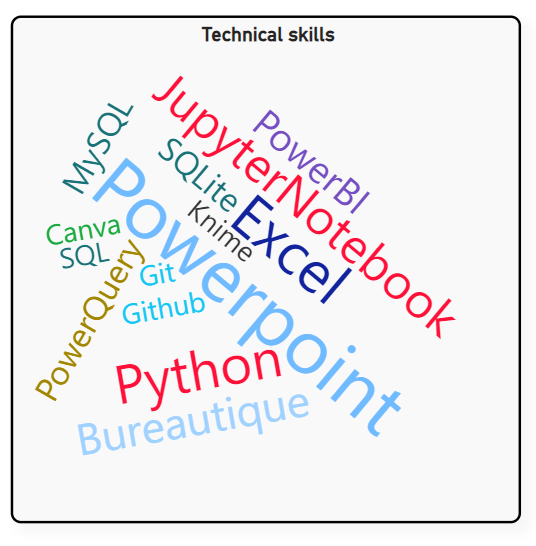
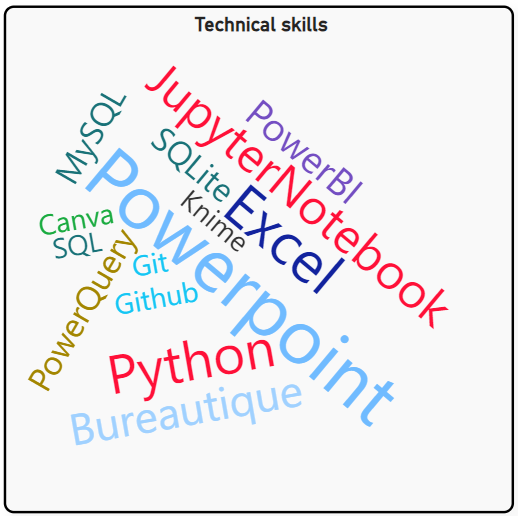
Mise à jour du dossier img + readme

Changed region(s): [[0.0618, 0.124, 0.8649, 0.8682], [0.0, 0.0, 1.0, 1.0]]

diff --git a/README.md b/README.md
@@ -2,7 +2,7 @@
 # Data analyst : cv-resume
 
 
-## A propos
+## À propos
 
 Je suis une Data analyst avec une solide expérience en communication et marketing dans le domaine de la santé.
 
@@ -22,10 +22,10 @@ Pour apprécier mon **portfolio data** plus en détails c'est [par ici](https://
 - Languages : , Python, SQL, R, Dax
 - Outils : Jupyter, MySQL, Rstudio, MS 365, Power BI, Knime, Git & Github, Power Query, SQLite, SQL Power Architects, Canva, Sharepoint
 
-![wordcloud](img/wordcloud.png)
+![wordcloud](img/wordcloud2.png.png)
 
 ## Soft skills
-![image treemap](img/soft_skills.png)
+![image treemap](img/soft_skills2.png.png)
 
 
 ## Education & formation
